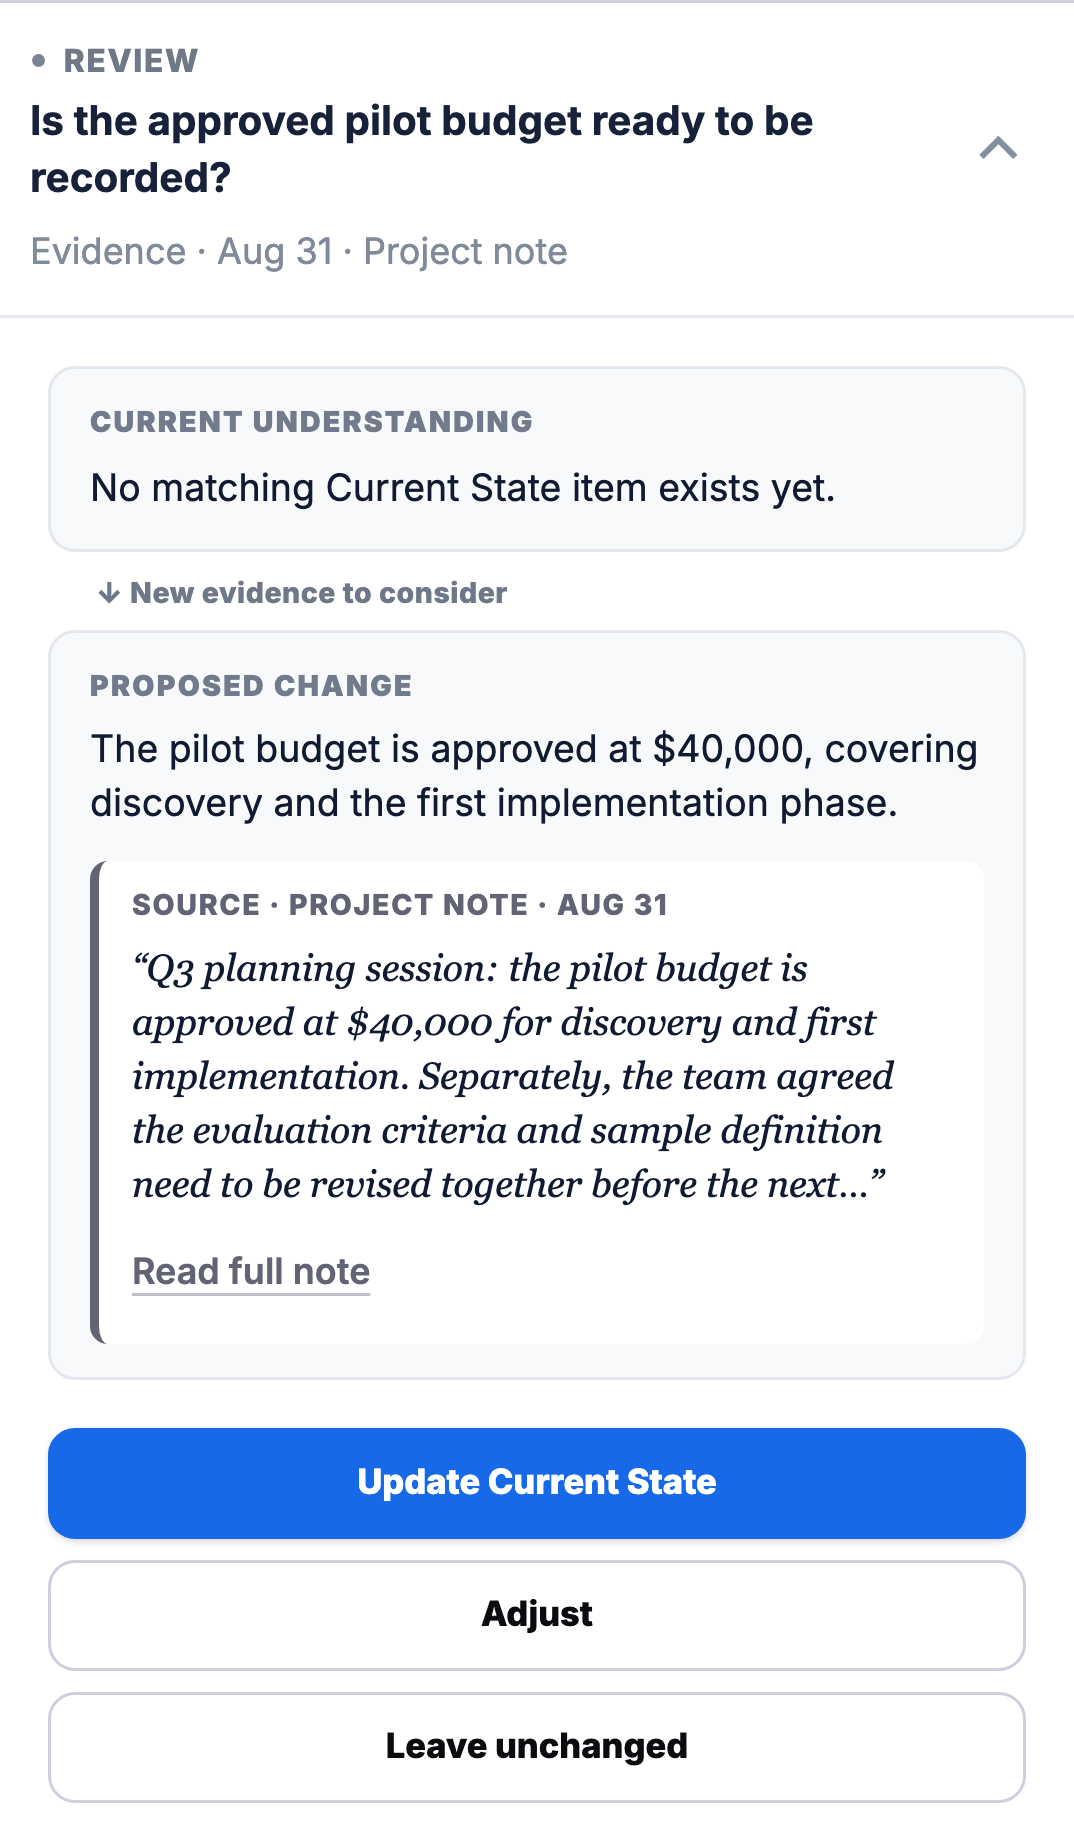
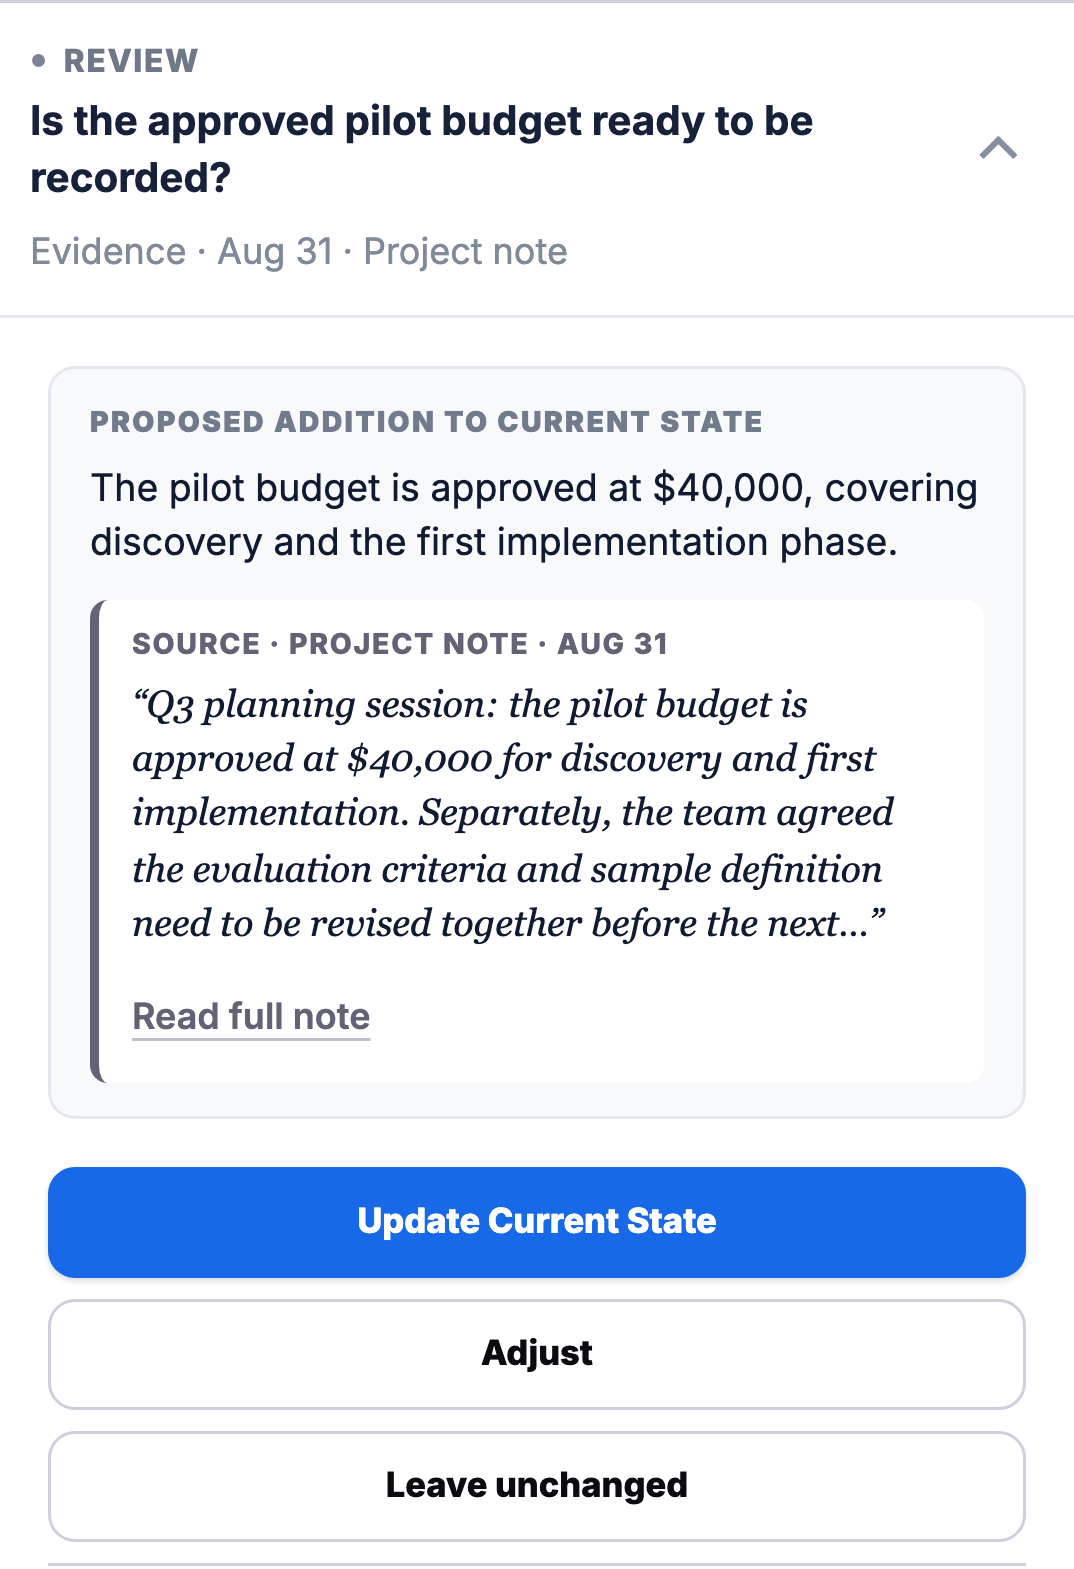
#595: trial capture shows a proposed addition (no empty comparison box)
Regenerated from review/593-review-sources e9828a6; the intro no longer says
the reviewer always sees a current understanding.

diff --git a/docs/review/595-state-capture-trial/index.html b/docs/review/595-state-capture-trial/index.html
@@ -14,13 +14,13 @@
 <p class="trial-note"><strong>Review-only trial for pedringt/ai-learning#595.</strong> Not linked from the site. The capture (the $40,000 pilot-budget Review, chosen Nov 2) shows the Review screen from the unmerged #593 branch, run locally against the seeded Northstar example project. Do not publish until #593 ships.</p>
 <section class="section seam-learning"><div class="kicker">Proposed placement · State case study, “The key product decisions”</div>
 <h2>A person sees the evidence before deciding</h2>
-<p>When new evidence could change what the project treats as true, State opens a Review. The reviewer sees the current understanding, the change the AI proposes, and a short quote from the source it came from, then decides. The proposal does not change Current State on its own; the reviewer’s choice does.</p>
+<p>When new evidence could change what the project treats as true, State opens a Review. The reviewer sees the change the AI proposes, what it would replace when an existing item is affected, and a short quote from the source it came from, then decides. The proposal does not change Current State on its own; the reviewer’s choice does.</p>
 <figure class="capture-trial">
 <picture>
-<source media="(max-width: 600px)" srcset="/docs/review/595-state-capture-trial/state-review-phone@3x.png" width="358" height="611"/>
-<img src="/docs/review/595-state-capture-trial/state-review-desktop@2x.png" width="790" height="434" alt="A State Review asking whether the approved pilot budget is ready to be recorded. Current understanding: no matching Current State item exists yet. Proposed change: the pilot budget is approved at $40,000, covering discovery and the first implementation phase. Quoted source, a project note from August 31, shortened: “Q3 planning session: the pilot budget is approved at $40,000 for discovery and first implementation. Separately, the team agreed the evaluation criteria and sample definition need to be revised together before the next…” followed by a “Read full note” link. Below are three buttons: Update Current State, Adjust, and Leave unchanged."/>
+<source media="(max-width: 600px)" srcset="/docs/review/595-state-capture-trial/state-review-phone@3x.png" width="358" height="523"/>
+<img src="/docs/review/595-state-capture-trial/state-review-desktop@2x.png" width="790" height="347" alt="A State Review asking whether the approved pilot budget is ready to be recorded. Proposed addition to Current State: the pilot budget is approved at $40,000, covering discovery and the first implementation phase. Quoted source, a project note from August 31, shortened: “Q3 planning session: the pilot budget is approved at $40,000 for discovery and first implementation. Separately, the team agreed the evaluation criteria and sample definition need to be revised together before the next…” followed by a “Read full note” link. Below are three buttons: Update Current State, Adjust, and Leave unchanged."/>
 </picture>
-<figcaption>A Review from State's Northstar example project. The quote is the stored project note, shortened on the card, and “Read full note” opens the complete note; the proposed change is the interpretation of it. The proposal does not change Current State until a person chooses one of the buttons.</figcaption>
+<figcaption>A Review from State's Northstar example project. The quote is the stored project note, shortened on the card, and “Read full note” opens the complete note; the proposed addition is the interpretation of it. The proposal does not change Current State until a person chooses one of the buttons.</figcaption>
 </figure>
 </section>
 </article></main>
